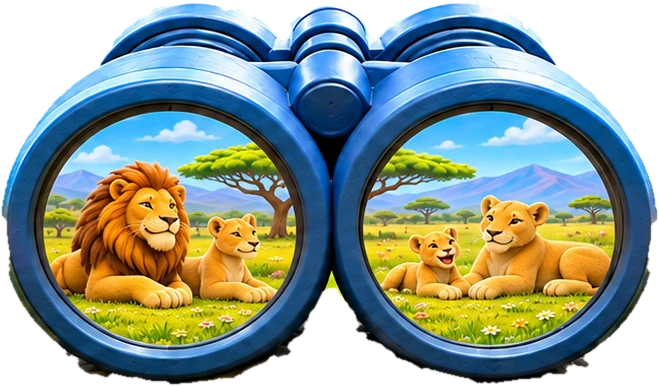
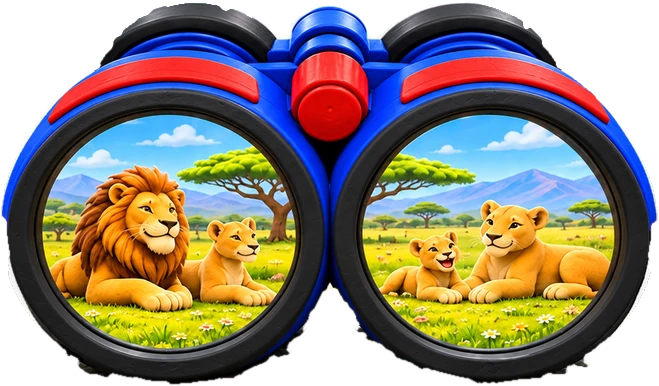
双眼鏡の絵をアイコンの「スコップ」にそろえる。トップ画面の双眼鏡の切り抜き 4 枚（スマホ・タブレットの縦横）と、物語の 2 コマ目の双眼鏡を、アイコンと同じ鮮やかな青の本体・黒いレンズの縁と接眼部・赤いつまみと肩の帯にした（GPT Image 2 で色とパーツだけを編集し、トップは元の切り抜きの形とレンズの中の景色をそのまま当てた）

diff --git a/DEVLOG.md b/DEVLOG.md
@@ -1133,3 +1133,11 @@
 - ゆめこの黒さ: 色の画像に掛ける明るさ（`brighten`）を足し、ジャングルの光で 1・1.35・1.7・2.5・3.5 を写真と並べて 2.5 に（`?tapirBright=<数>` で試せる）。線形の値に掛けるので 1.7 まではほとんど変わらなかった
 - 計測の道具: main のスプラッシュとおはなし・案内の記録の版（awl.story.v2・awl.guide.v2）に合わせて、ヘッドレスの撮影が入る前に待つ時間と localStorage を直した
 - 検証: 型チェック・ビルド通過。10 体とも生成モデルで出て、名前の札（9 m）・ピン・モニター・ともだちになる・ともだち帳・地図（出会った記録）を確認。かぼすは群れのマーラが 1.5〜2 m に並ぶので、近づく向きによってはピンが隣の子に出る（西から近づくとかぼす）。GLB 10 個を止めると 10 体ともプリミティブ版のまま・警告だけでワールドは続く（190 頭、名前の札も 190）
+## 2026-11-06 双眼鏡の絵をアイコンの「スコップ」にそろえる
+- 指示（くに）: トップ画面・アイコン・物語の双眼鏡がそろっていないので、全部アイコンと同じ青と、黒・赤のアクセントの双眼鏡にする。アイコンの双眼鏡の名前は「スコップ」
+- 生成: `generate-images`（Codex 経由の GPT Image 2、サブスク枠）で、いまの絵の双眼鏡の色とパーツだけをアイコン（`public/icon-512.png`）に合わせる編集。本体は鮮やかな青、レンズの縁と接眼部は黒、中央のつまみと筒の肩の帯は赤
+  - トップ: 双眼鏡の切り抜きの層 `public/home/kv-{phone,tablet}-{landscape,portrait}-bino.webp` の 4 枚。灰色の地に置いて 2 倍にして編集し、元の大きさに戻してから、元の切り抜きの形（アルファ）をそのまま当て、縁の灰色を取り除いた。レンズの中の景色は元のまま。手と帽子の層（`-front`）や下の絵には触っていない
+  - 物語: 2 コマ目 `public/story/s2-bino-{1280,768}.webp`（男の子が掲げている双眼鏡だけ。首から下げた小さな双眼鏡や、ほかの部分はそのまま）。原本は `artwork/story/out/s2-bino-scop.png`（リポジトリの外）
+  - スプラッシュの双眼鏡（`splash-bino.webp`）は、もともとアイコンと同じだったので変えていない
+- 検証: dev サーバーで 375×812・768×1024・1024×768・812×375 のホームを見て、双眼鏡が絵になじみ、手と帽子の層とずれていないこと。物語の絵は元と並べて、双眼鏡以外が変わっていないことを見た
+- 未確認: iPhone 実機。共有用の `og.jpg` はまだ古い双眼鏡のまま（今回の指示の外）
